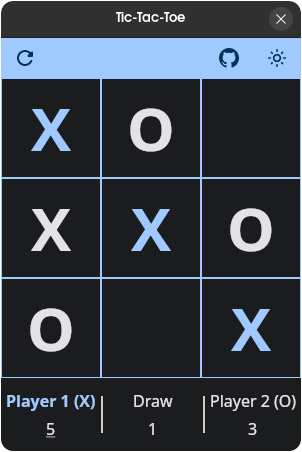
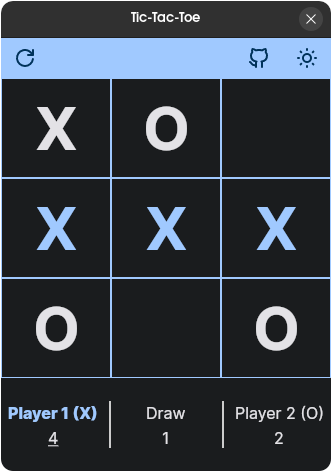
Update screenshots

diff --git a/src/jvmMain/kotlin/Main.kt b/src/jvmMain/kotlin/Main.kt
@@ -30,7 +30,7 @@ fun main() = application {
         onCloseRequest = ::exitApplication,
         state = rememberWindowState(
             position = WindowPosition(Alignment.Center),
-            size = DpSize(width = 330.dp, height = 460.dp)
+            size = DpSize(width = 330.dp, height = 470.dp)
         ),
         title = "Tic-Tac-Toe",
         resizable = false,
@@ -120,8 +120,10 @@ fun TicTacToeApp() {
 
             //Bottom bar
             Row(
-                modifier = Modifier.fillMaxWidth(),
-                horizontalArrangement = Arrangement.Center,
+                modifier = Modifier
+                    .fillMaxWidth()
+                    .padding(horizontal = 2.dp),
+                horizontalArrangement = Arrangement.SpaceBetween,
                 verticalAlignment = Alignment.CenterVertically
             ) {
                 Column(
